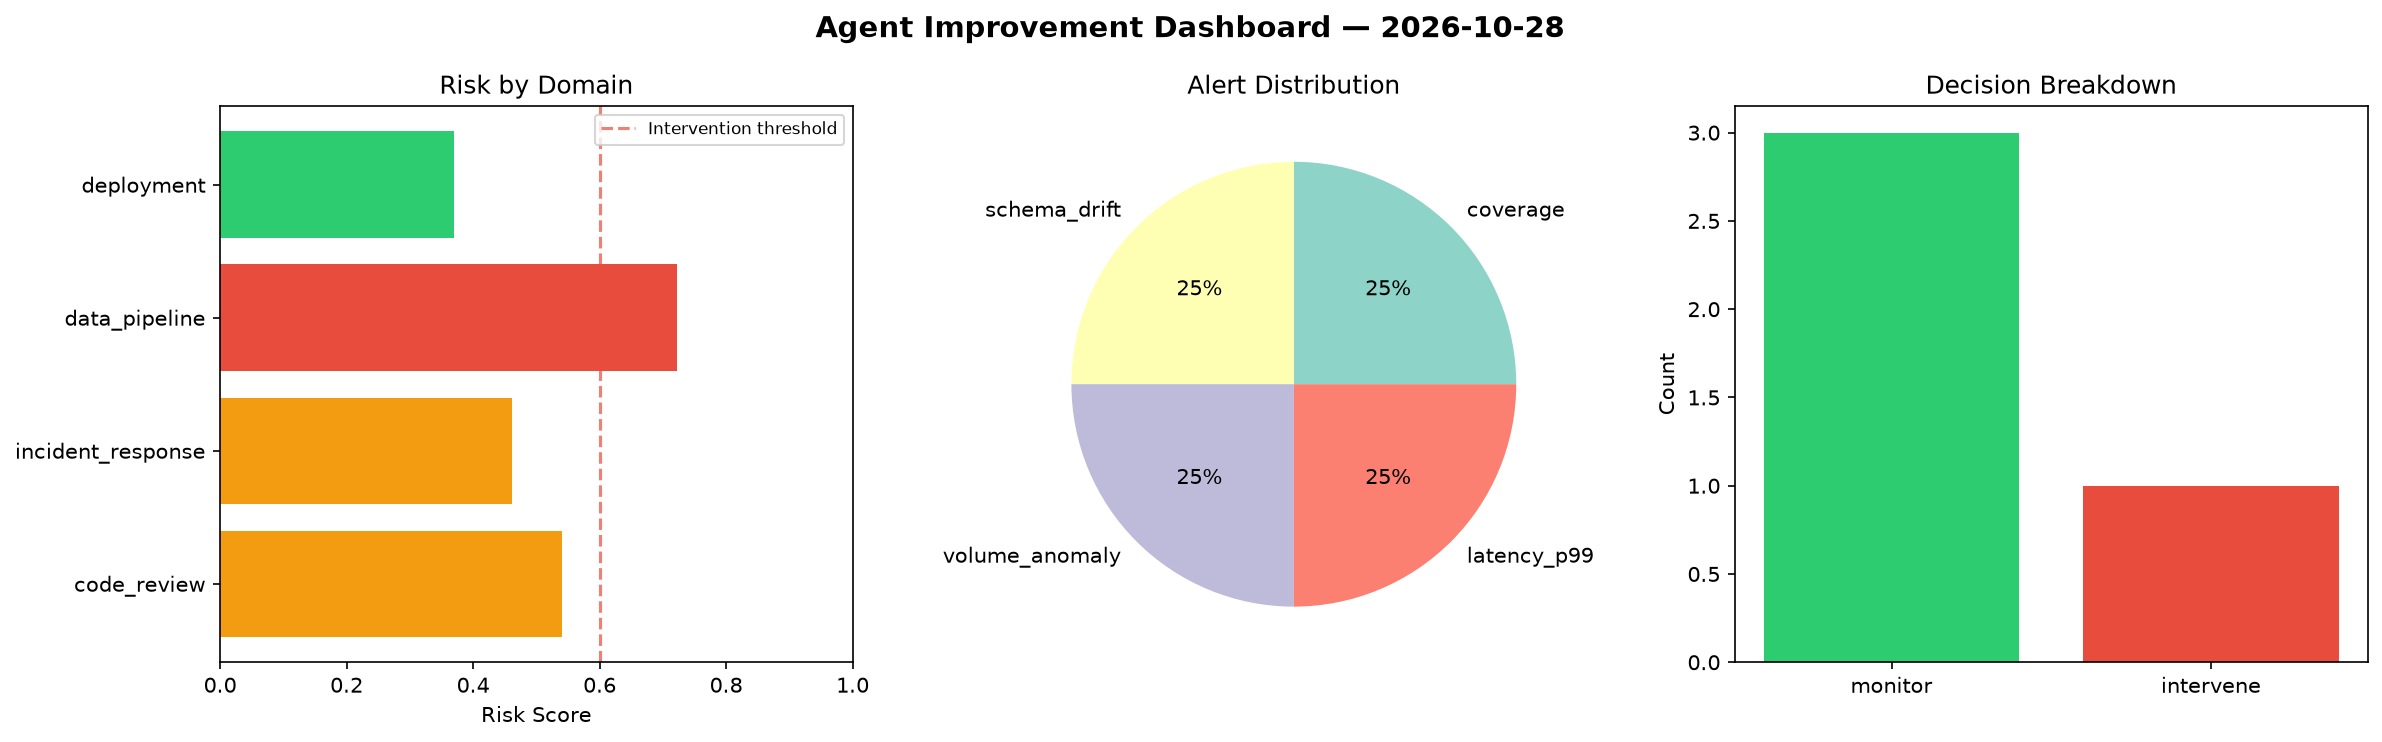
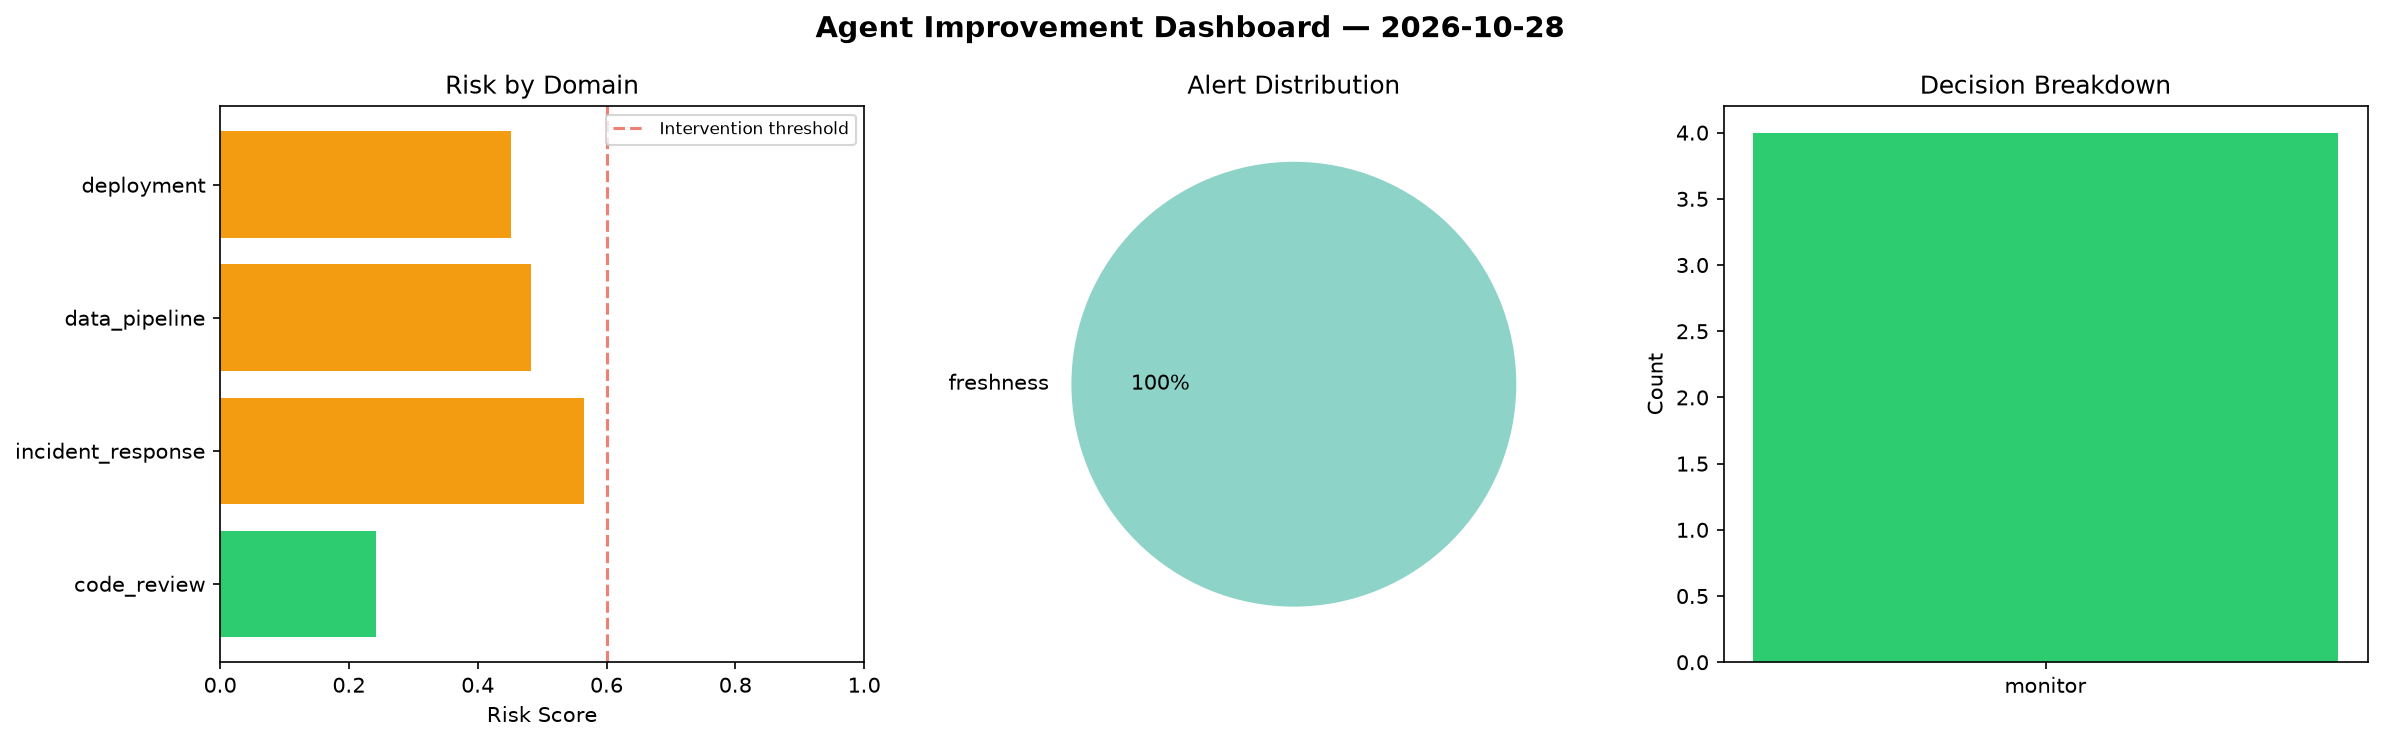
agent-improvement: daily cycle 2026-10-28T23:59

diff --git a/logs/2026-10-28.md b/logs/2026-10-28.md
@@ -1,6 +1,6 @@
 # Agent Improvement Report — 2026-10-28
 
-**Cycle ID:** `fa117423` | **Avg Risk:** 0.5233 | **Interventions:** 1/4
+**Cycle ID:** `b9ccf503` | **Avg Risk:** 0.4354 | **Interventions:** 0/4
 
 ![Dashboard](2026-10-28_dashboard.png)
 
@@ -10,18 +10,18 @@
 
 | Domain | Risk Score | Decision | Alerts |
 |--------|-----------|----------|--------|
-| code_review | 0.5404 | monitor | coverage |
-| incident_response | 0.461 | monitor | none |
-| data_pipeline | 0.7218 | intervene | schema_drift, volume_anomaly |
-| deployment | 0.37 | monitor | latency_p99 |
+| code_review | 0.2423 | monitor | none |
+| incident_response | 0.565 | monitor | none |
+| data_pipeline | 0.4826 | monitor | freshness |
+| deployment | 0.4519 | monitor | none |
 
 ## Delta vs Yesterday
 
 | Domain | Today | Yesterday | Change |
 |--------|-------|-----------|--------|
-| code_review | 0.5404 | 0.6835 | 📉 -20.9% |
-| incident_response | 0.461 | 0.6584 | 📉 -30.0% |
-| data_pipeline | 0.7218 | 0.2532 | 📈 185.1% |
-| deployment | 0.37 | 0.5892 | 📉 -37.2% |
+| code_review | 0.2423 | 0.6835 | 📉 -64.6% |
+| incident_response | 0.565 | 0.6584 | 📉 -14.2% |
+| data_pipeline | 0.4826 | 0.2532 | 📈 90.6% |
+| deployment | 0.4519 | 0.5892 | 📉 -23.3% |
 
-**Refinement:** `{'adjustment': 'maintain', 'trend': 'improving', 'window': 4}`
+**Refinement:** `{'adjustment': 'tighten_thresholds', 'trend': 'degrading', 'window': 4}`
